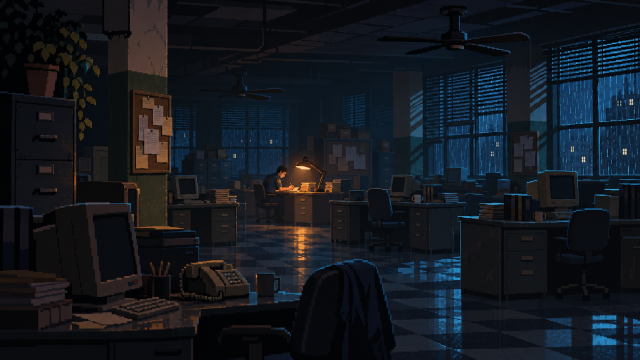
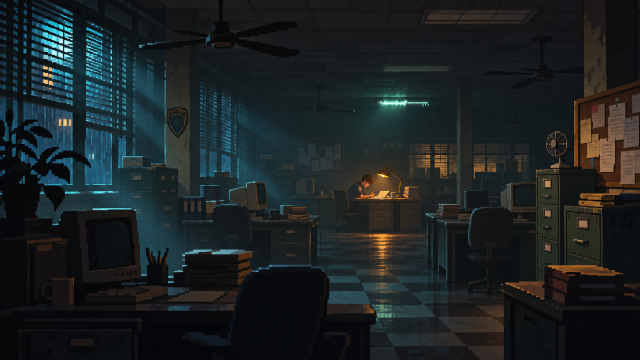
[Э3][s01] exposition v1_c; desk from ref 05 (zoomed); doc sprites papers/casefile/note

diff --git a/art/briefs/s01_precinct.md b/art/briefs/s01_precinct.md
@@ -6,16 +6,16 @@
 Нью-Йорк, 1998, ночь, дождь. Полицейский участок почти в темноте. Формат 1 — боковой кадр зала, Алексей вдалеке за столом под лампой (фон готов). Формат 2 — вид строго сверху на его стол: телефон эпохи и 3 документа; клик по документу — крупный план.
 
 ## Список ассетов
-Все финальные размеры — в пикселях базового разрешения 640×360.
+Все финальные размеры — в пикселях базового разрешения 640×360. Позиции `@ (x,y)` — левый верхний угол спрайта на фоне bg_desk. Документы — отдельные спрайты: в игре слегка сдвигаются при наведении мыши.
 
 | id | Тип | Размер (финал) | Описание | Референсы | Статус |
 |---|---|---|---|---|---|
-| bg_exposition | фон | 640×360 | Зал участка сбоку, ночь, лампа, дождь за окнами. Финал: `assets/backgrounds/s01/exposition.png` | art/style_ref.png | APPROVED |
-| bg_desk | фон | 640×360 | Стол Алексея строго сверху, тёмное дерево — основа v1_a как есть (кружка, пепельница на своих местах), убраны клавиатура и ручка. Свободные места — под телефон и 3 документа. Финал: `assets/backgrounds/s01/desk.png` | style_ref, refs/s01_precinct/01 | APPROVED (v4_a) |
-| prop_phone | объект | ~110×90 | Офисный телефон 1998 (бежевый/светло-серый, трубка на рычаге, витой шнур, кнопки линий, маленький ЖК), вид сверху, свет как на bg_desk, без надписей. `assets/props/s01/phone.png` | bg_desk, style_ref | TODO |
-| prop_newspaper | объект | ~150×120 | Мятая газетная вырезка на столе, вид сверху, строки текста неразборчивы. `assets/props/s01/newspaper.png` | style_ref | TODO |
-| prop_casefile | объект | ~150×115 | Полицейская папка дела (manila folder) с бланком и скрепкой, вид сверху. `assets/props/s01/casefile.png` | style_ref | PICKED (v2_a, v2_b — обе нравятся) |
-| prop_note | объект | ~90×80 | Записка на клочке бумаги / стикере, от руки, неразборчиво. `assets/props/s01/note.png` | style_ref | TODO |
+| bg_exposition | фон | 640×360 | Зал участка сбоку, ночь, лампа, дождь за окнами. Финал: `assets/backgrounds/s01/exposition.png` | art/style_ref.png | APPROVED (v1_c; прежний v1_a — art/sources/s01/exposition_v1_a*) |
+| bg_desk | фон | 640×360 | Стол сверху по целевому рефу пользователя (`refs/s01_precinct/05_desk_target.png`): лампа, пепельница, кружка, ручки, лоток, ЭЛТ-компьютер, клавиатура, мышь, телефон, ручка, биндер; вокруг — плитка пола как exposition v1_c. Без документов (они — отдельные спрайты). Кадр приближен ×1.07 (кроп 56,30 w1558 из исходника). Исходник `art/sources/s01/desk3_v1_a.png`. Финал: `assets/backgrounds/s01/desk.png` | refs/s01_precinct/05 | APPROVED (bg_desk3 v1_a, zoom) |
+| prop_phone | — | — | Телефон нарисован в фоне bg_desk. Отдельный спрайт — только если понадобится анимация звонка | — | В ФОНЕ |
+| doc_papers | объект | 108×132 @ (115,165) | Левая стопка листов. `assets/props/s01/papers.png` | refs/05 | APPROVED |
+| doc_casefile | объект | 119×146 @ (238,152) | Папка с документами. `assets/props/s01/casefile.png` | refs/05 | APPROVED |
+| doc_note | объект | 74×80 @ (374,204) | Записка. `assets/props/s01/note.png` | refs/05 | APPROVED |
 | close_newspaper | крупный план | ~300×330 | Газета крупно, мятая, **пустая плашка под шапку** (The New York Times) и **пустое место под заголовок и колонку текста** — текст рисует Godot. `assets/props/s01/close_newspaper.png` | refs/s01_precinct/02 | TODO |
 | close_casefile | крупный план | ~300×330 | Бланк дела крупно: шапка-полоса, графы-линии, место под фото, **без текста**. `assets/props/s01/close_casefile.png` | refs/s01_precinct/02 | TODO |
 | close_note | крупный план | ~240×240 | Записка крупно: линованная/клетчатая бумага, загнутый угол, **без текста**. `assets/props/s01/close_note.png` | refs/s01_precinct/02 | TODO |

diff --git a/docs/STATUS.md b/docs/STATUS.md
@@ -3,8 +3,8 @@ Claude читает этот файл в начале каждой сессии 
 
 Режим согласования: STRICT
 Текущий этап: Э2 стиль принят (G2) → Э3 s01_precinct: визуал
-Следующий шаг: Э1 — GDD-lite (нужны от пользователя: сеттинг, сюжет, жанр/вид, идея первой сцены, референсы в art/refs/)
-Ждёт согласования: пакет 2 — phone, newspaper, casefile, note по 2 варианта (8 генераций)
+Следующий шаг: сценарий s01 (поток сцены, диалоги-заглушки, действия) → затем крупные планы 3 документов
+Ждёт согласования: план сценария s01 (поток экранов + диалоги)
 
 ## Окружение
 Godot: 4.7.2, путь: /Applications/Godot.app/Contents/MacOS/Godot
@@ -14,9 +14,10 @@ Codex CLI: 0.169.0 (Node 26 LTS через nvm), вход: да (ChatGPT)
 ## Сцены
 | Сцена | ТЗ | Визуал | План | Реализация | Приёмка |
 |---|---|---|---|---|---|
-| s01_precinct | дизайн DRAFT | ТЗ DRAFT; bg_exposition, bg_desk APPROVED | — | — | — |
+| s01_precinct | дизайн DRAFT | ТЗ DRAFT; bg_exposition (v1_c), bg_desk (по рефу 05), 3 документа-спрайта APPROVED; крупные планы TODO | — | — | — |
 
 ## Последние действия (последние 5, новые сверху)
+- 2026-11-17 Э3: фон экспозиции → v1_c; стол по рефу 05 (приближен), документы papers/casefile/note отдельными спрайтами в assets/props/s01
 - 2026-11-17 Э3: bg_desk APPROVED (v1_a без клавиатуры и ручки → v4_a), исходники в art/sources/s01
 - 2026-11-17 Э2→Э3: фон экспозиции APPROVED (v1_a 640×360), style_ref, 640×360 в project.godot, STYLE_GUIDE, ТЗ s01
 - 2026-11-17 Э2: выбран v1_a 640×360; pixelize: --saturation/--colors/--dither; 4 варианта обработки

diff --git a/art/refs/s01_precinct/notes.md b/art/refs/s01_precinct/notes.md
@@ -8,5 +8,6 @@
 | 02_closeup_poster_thought.jpg | Крупный план предмета по центру, затемнённый фон сцены, мысль героя сбоку обычным текстом | Свой предмет — газетная вырезка |
 | 03_office_dialogue_side.jpg | Экспозиция: общий план тёмного офиса, герои маленькие в глубине; диалоговое окно — чёрная плашка с именем говорящего цветом; варианты ответа — чёрные кнопки | Ночной полицейский участок, почти без света; диалоги снизу экрана (пожелание пользователя) |
 | 04_street_dialogue_side.jpg | Ночь, холодный синий + красно-синие мигалки, окна-огоньки | Для будущих уличных сцен |
+| 05_desk_target.png | **Целевой вид стола от пользователя**: стол сверху с лампой, пепельницей, кружкой, стаканом с ручками, лотком, ЭЛТ-компьютером, клавиатурой, мышью, телефоном, ручкой, папкой-биндером. Листы, папка с документами и записка — отдельными спрайтами (двигаются при наведении). Фон вокруг стола — квадратная плитка пола как на s01_bg_exposition/v1_c | — |
 
 Пожелания пользователя: в участке темно, мало света; экспозиция сбоку (как 03), Алексей вдалеке за столом в полутьме, диалоги снизу, кнопка «Изучать документы» → вид на стол (как 01) с телефоном 1998 года и 3 документами. Текст по-русски, названия/надписи «в мире» — по-английски. Атмосфера/визуал — максимально к `_style/` (Final Run).

diff --git a/docs/scenes/s01_precinct_design.md b/docs/scenes/s01_precinct_design.md
@@ -20,7 +20,7 @@
 ## Формат 2. Стол Алексея
 - Ракурс — на стол (ориентир `01_desk_documents_topdown.jpg`).
 - Инструкция: «Изучите материалы на столе, чтобы понять суть последних событий».
-- На столе: **телефон эпохи (1998)** и **3 документа**.
+- На столе: **телефон эпохи (1998)** и **3 документа** (отдельные спрайты, слегка сдвигаются при наведении мыши).
 - Клик по документу → он показывается крупнее и чётче (в пиксель-арте, без смены стиля), + текст и реакция Алексея.
 
 Правило языка: названия, имена, служебные шапки и надписи «в мире» (The New York Times, CASE FILE, FROM/TO, надпись на стене) — по-английски; основной текст — по-русски.
@@ -78,4 +78,5 @@ TO: Officer Alexei Karamazov
 Пока заглушки. Claude может предложить черновик позже — отдельно, на согласование.
 
 ## Открытые вопросы
-- —
+- Какой спрайт на столе какой документ: левая стопка листов (papers) = газета NYT? папка (casefile) = дело Cole, записка (note) = от Sarah Klein.
+- На столе стоит ЭЛТ-компьютер (оставлен по выбранному фону) — интерактивен ли он?
